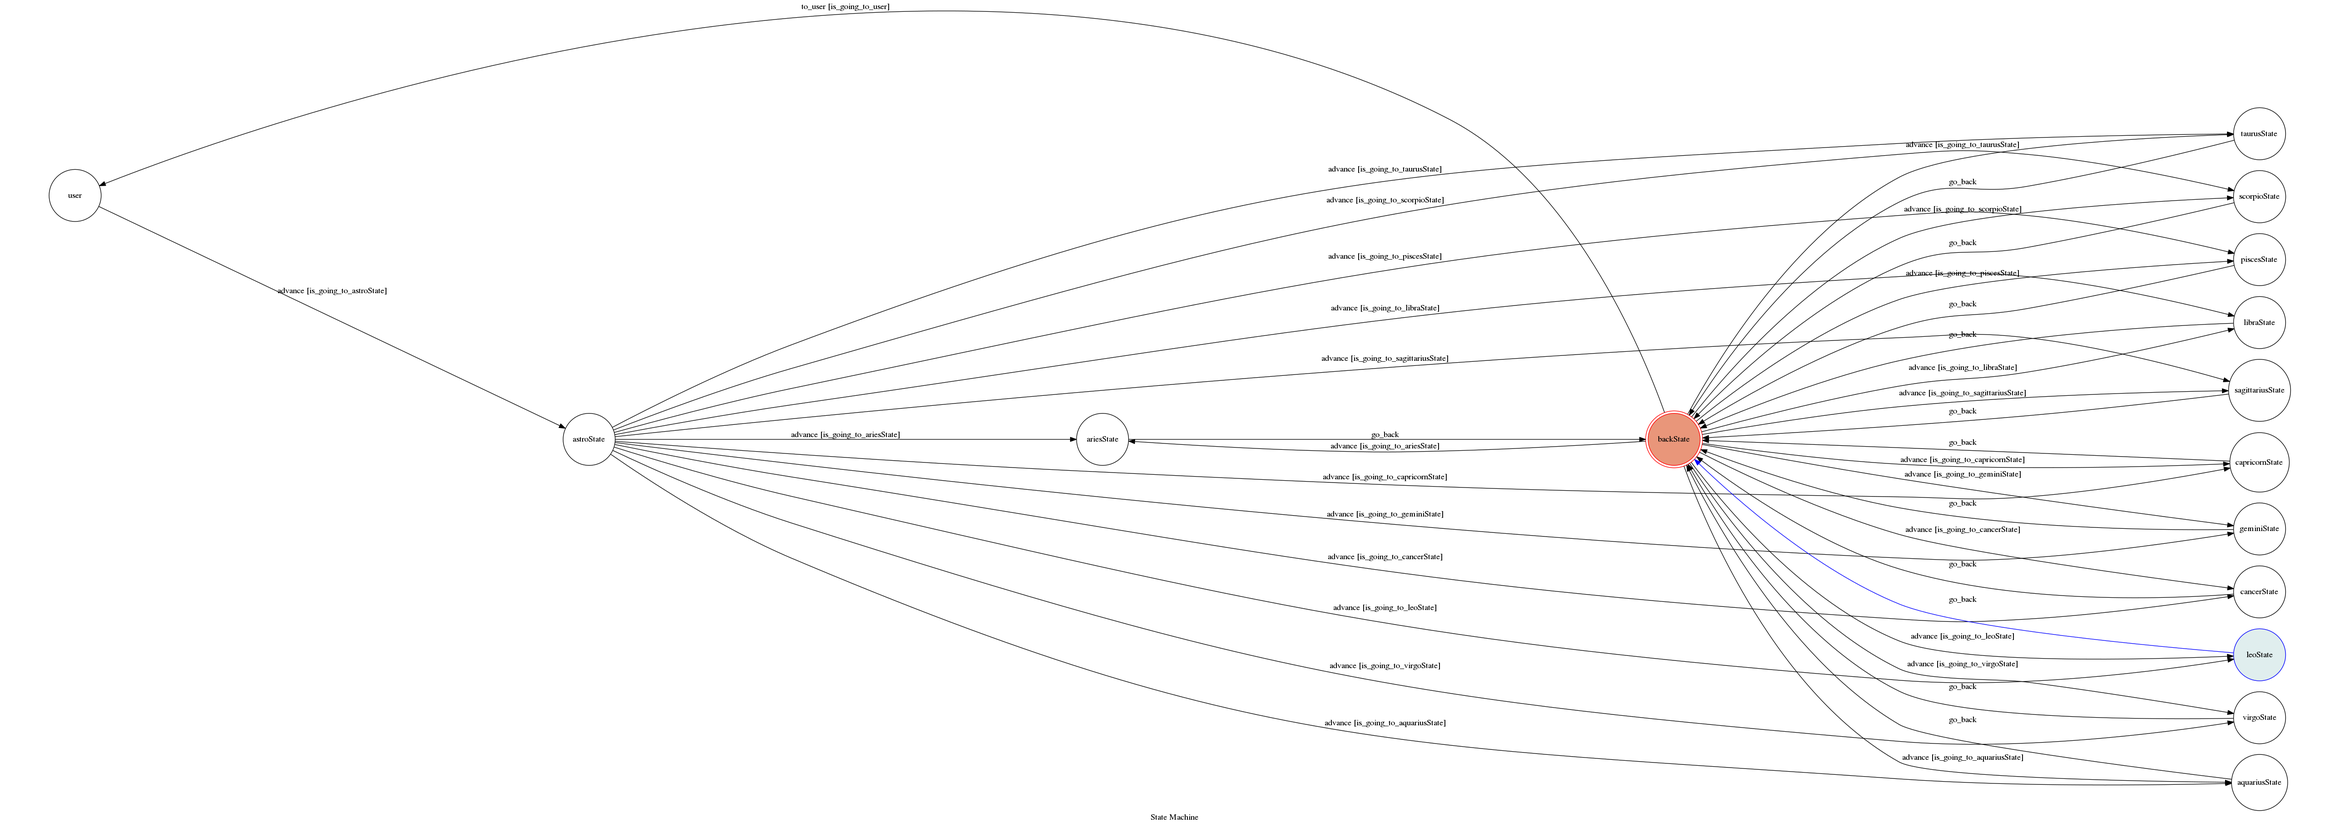
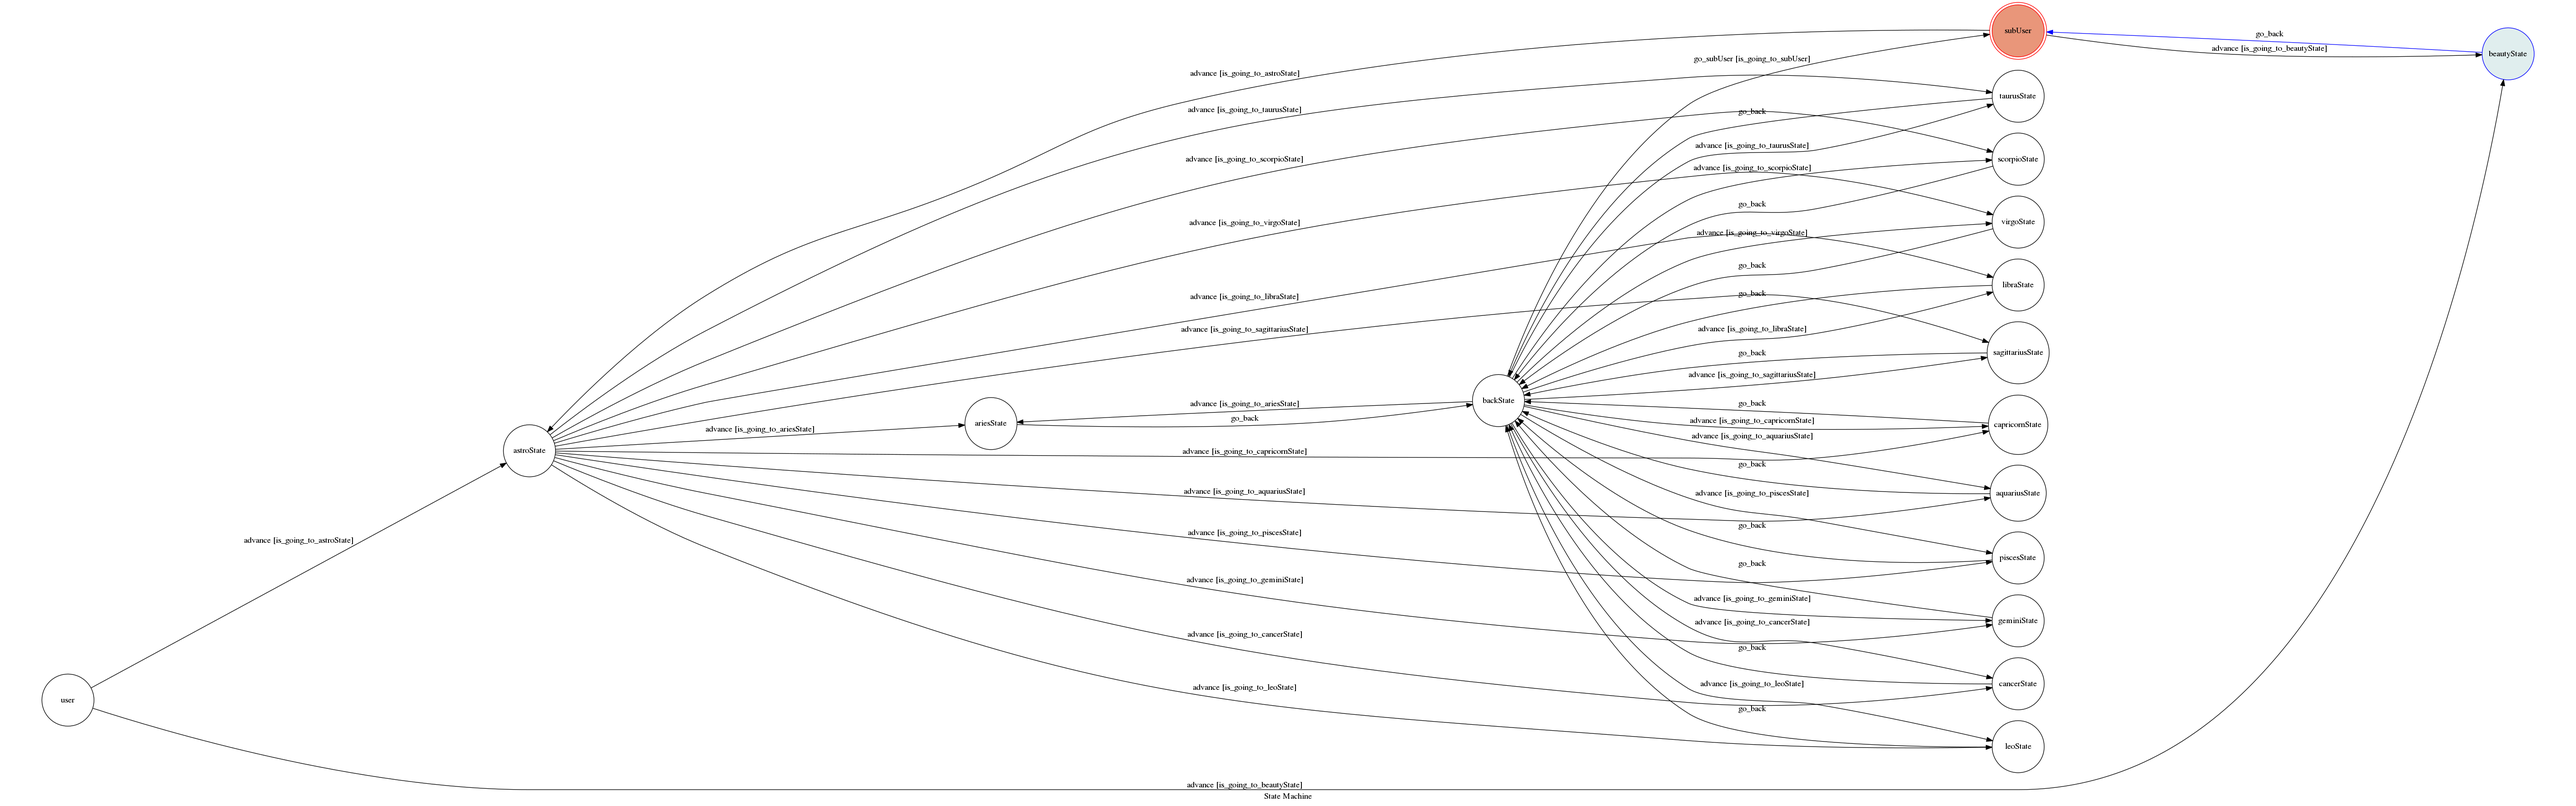
Add BeautyState Function

diff --git a/fsm.py b/fsm.py
@@ -1,5 +1,5 @@
 from transitions.extensions import GraphMachine
-from urllib.request import urlopen
+from urllib.request import urlopen, Request
 from bs4 import BeautifulSoup
 
 from send_msg import send_text_message
@@ -12,6 +12,24 @@ class TocMachine(GraphMachine):
             **machine_configs
         )
         self.target_page_no_num_string = "https://m.click108.com.tw/astro/index.php?astroNum="
+        self.ptt_page_string = "https://www.ptt.cc/bbs/Beauty/index.html"
+
+    def get_titles(self, page_string):
+
+        r = Request(page_string)
+        r.add_header("user-agent", "Mozilla/5.0")
+
+        result = []
+        page = urlopen(r)
+        soup = BeautifulSoup(page, 'html.parser')
+        divs = soup.find_all('div', 'r-ent')
+        for d in divs:
+            # 取得文章連結及標題
+            if d.find('div', 'title'):  # 有超連結，表示文章存在，未被刪除
+                t = d.find('div', 'title')
+                result.append(d.find('div', 'title').text)
+
+        return result
 
     def is_going_to_astroState(self, event):
         if event.get("message"):
@@ -97,12 +115,29 @@ class TocMachine(GraphMachine):
             return text.lower() == '查其他'
         return False
 
+    def is_going_to_beautyState(self, event):
+        if event.get("message"):
+            text = event['message']['text']
+            return text.lower() == '圖呢'
+        return False
+
     def on_enter_subUser(self, event):
         print("subuser")
 
         sender_id = event['sender']['id']
-        responese = send_text_message(sender_id, "想查點什麼呢～")
-        responese = send_text_message(sender_id, "-> 查星座")
+        responese = send_text_message(sender_id, "還想查點什麼呢～")
+        responese = send_text_message(sender_id, "[可用指令]")
+        responese = send_text_message(sender_id, "  -> 查星座")
+        responese = send_text_message(sender_id, "  -> 圖呢")
+
+    def on_enter_beautyState(self, event):
+        print("這不是來了嗎～")
+
+        sender_id = event['sender']['id']
+        responese = send_text_message(sender_id, "這不是來了嗎～")
+        responese = send_text_message(sender_id, str(self.get_titles(self.ptt_page_string)))
+
+        self.go_back(event)
 
     def on_enter_astroState(self, event):
         print("想查什麼星座呢？")
@@ -125,6 +160,8 @@ class TocMachine(GraphMachine):
 
         sender_id = event['sender']['id']
         send_text_message(sender_id, name)
+        send_text_message(sender_id, "[可用指令]")
+        send_text_message(sender_id, "  -> 查其他")
 
         self.go_back(event)
 
@@ -141,6 +178,8 @@ class TocMachine(GraphMachine):
 
         sender_id = event['sender']['id']
         send_text_message(sender_id, name)
+        send_text_message(sender_id, "[可用指令]")
+        send_text_message(sender_id, "  -> 查其他")
 
         self.go_back(event)
 
@@ -157,6 +196,8 @@ class TocMachine(GraphMachine):
 
         sender_id = event['sender']['id']
         send_text_message(sender_id, name)
+        send_text_message(sender_id, "[可用指令]")
+        send_text_message(sender_id, "  -> 查其他")
 
         self.go_back(event)
 
@@ -173,6 +214,8 @@ class TocMachine(GraphMachine):
 
         sender_id = event['sender']['id']
         send_text_message(sender_id, name)
+        send_text_message(sender_id, "[可用指令]")
+        send_text_message(sender_id, "  -> 查其他")
 
         self.go_back(event)
 
@@ -189,6 +232,8 @@ class TocMachine(GraphMachine):
 
         sender_id = event['sender']['id']
         send_text_message(sender_id, name)
+        send_text_message(sender_id, "[可用指令]")
+        send_text_message(sender_id, "  -> 查其他")
 
         self.go_back(event)
 
@@ -205,6 +250,8 @@ class TocMachine(GraphMachine):
 
         sender_id = event['sender']['id']
         send_text_message(sender_id, name)
+        send_text_message(sender_id, "[可用指令]")
+        send_text_message(sender_id, "  -> 查其他")
 
         self.go_back(event)
 
@@ -221,6 +268,8 @@ class TocMachine(GraphMachine):
 
         sender_id = event['sender']['id']
         send_text_message(sender_id, name)
+        send_text_message(sender_id, "[可用指令]")
+        send_text_message(sender_id, "  -> 查其他")
 
         self.go_back(event)
 
@@ -237,6 +286,8 @@ class TocMachine(GraphMachine):
 
         sender_id = event['sender']['id']
         send_text_message(sender_id, name)
+        send_text_message(sender_id, "[可用指令]")
+        send_text_message(sender_id, "  -> 查其他")
 
         self.go_back(event)
 
@@ -253,6 +304,8 @@ class TocMachine(GraphMachine):
 
         sender_id = event['sender']['id']
         send_text_message(sender_id, name)
+        send_text_message(sender_id, "[可用指令]")
+        send_text_message(sender_id, "  -> 查其他")
 
         self.go_back(event)
 
@@ -269,6 +322,8 @@ class TocMachine(GraphMachine):
 
         sender_id = event['sender']['id']
         send_text_message(sender_id, name)
+        send_text_message(sender_id, "[可用指令]")
+        send_text_message(sender_id, "  -> 查其他")
 
         self.go_back(event)
 
@@ -285,6 +340,8 @@ class TocMachine(GraphMachine):
 
         sender_id = event['sender']['id']
         send_text_message(sender_id, name)
+        send_text_message(sender_id, "[可用指令]")
+        send_text_message(sender_id, "  -> 查其他")
 
         self.go_back(event)
 
@@ -301,6 +358,8 @@ class TocMachine(GraphMachine):
 
         sender_id = event['sender']['id']
         send_text_message(sender_id, name)
+        send_text_message(sender_id, "[可用指令]")
+        send_text_message(sender_id, "  -> 查其他")
 
         self.go_back(event)
 
@@ -348,6 +407,9 @@ class TocMachine(GraphMachine):
 
     def on_exit_backState(self, event):
         print('離開backState')
+
+    def on_exit_beautyState(self, event):
+        print('離開beautyState')
 
 
 

diff --git a/webhook_handler.py b/webhook_handler.py
@@ -23,7 +23,8 @@ machine = TocMachine(
         'aquariusState',
         'piscesState',
         'backState',
-        'subUser'
+        'subUser',
+        'beautyState'
     ],
     transitions=[
         {
@@ -31,6 +32,12 @@ machine = TocMachine(
             'source': ['user', 'subUser'],
             'dest': 'astroState',
             'conditions': 'is_going_to_astroState'
+        },
+        {
+            'trigger': 'advance',
+            'source': ['user', 'subUser'],
+            'dest': 'beautyState',
+            'conditions': 'is_going_to_beautyState'
         },
         {
             'trigger': 'advance',
@@ -129,7 +136,14 @@ machine = TocMachine(
             ],
             'dest': 'subUser',
             'conditions': 'is_going_to_subUser'
-        }
+        },
+        {
+            'trigger': 'go_back',
+            'source': [
+                'beautyState',
+            ],
+            'dest': 'subUser'
+        },
     ],
     initial='user',
     auto_transitions=False,
